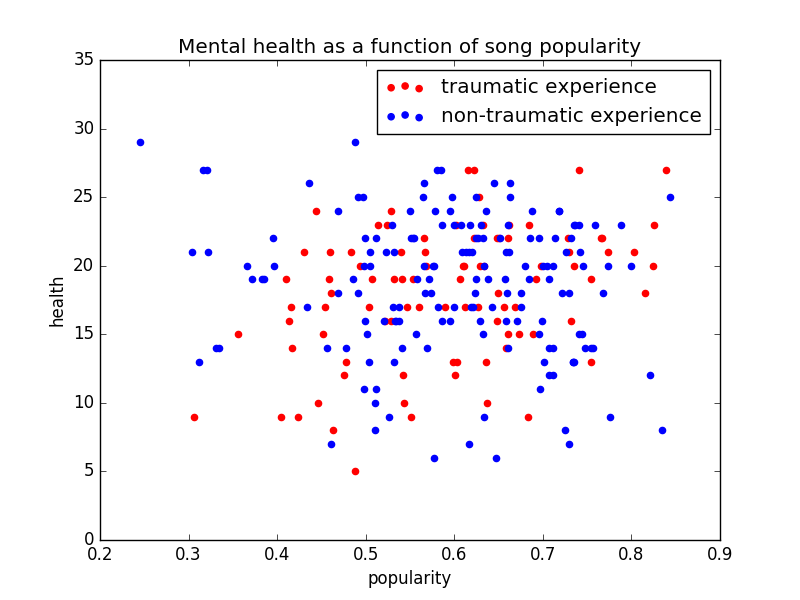
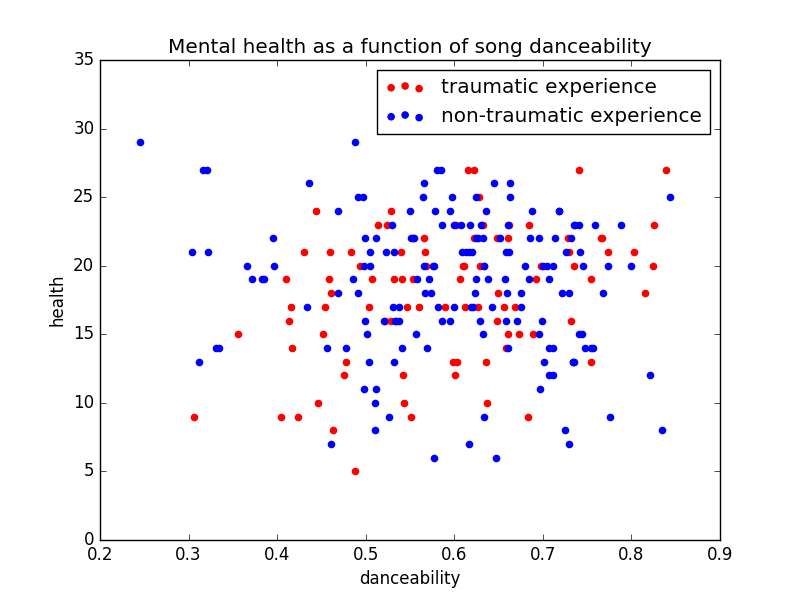
fixed graph axes label

Changed region(s): [[0.2188, 0.06, 0.8125, 0.09], [0.4375, 0.93, 0.5938, 0.99]]

diff --git a/python-models/all_plots.py b/python-models/all_plots.py
@@ -16,8 +16,8 @@ nonTraumaDataset = dataset[dataset['traumatic_experience'] == 'No']
 plt.figure(1)
 plt.scatter(traumaDataset.dance, traumaDataset.health, color= 'red', label='traumatic experience')
 plt.scatter(nonTraumaDataset.dance, nonTraumaDataset.health, color = 'blue', label='non-traumatic experience')
-plt.title('Mental health as a function of song popularity')
-plt.xlabel('popularity')
+plt.title('Mental health as a function of song danceability')
+plt.xlabel('danceability')
 plt.ylabel('health')
 plt.legend()
 plt.show()
